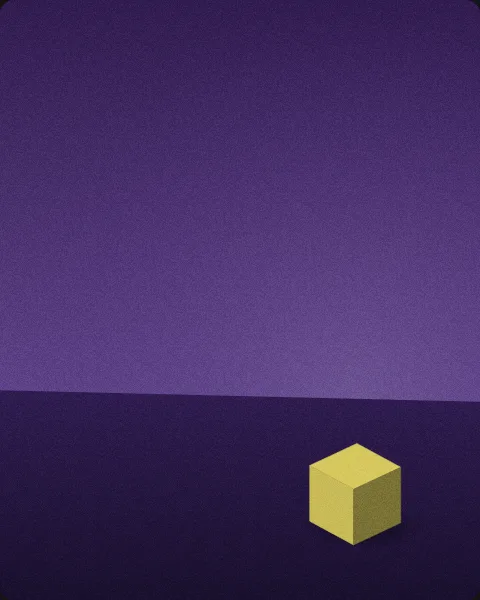
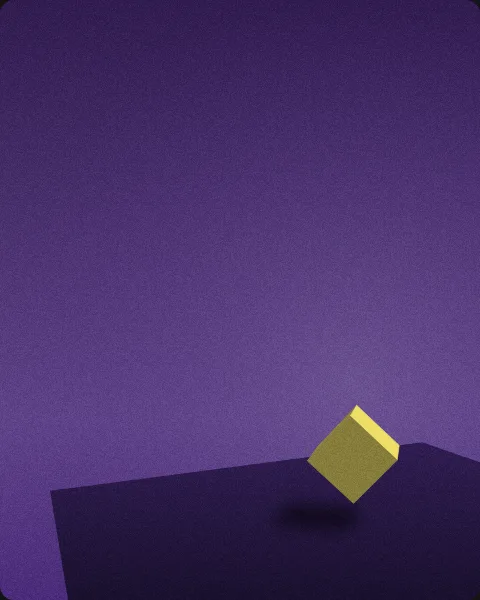
112차: 미니멀 큐브 움직임을 레퍼런스처럼 — 원근 투영 + 끝이 있는 바닥 판, 카메라가 판 둘레를 30초에 한 바퀴 돌아 판 모서리와 공간이 함께 돌고, 큐브는 두 축으로 구르듯 돌며 떠 있음, 그림자는 빛 방향으로 판 위에 흐리게(사파리도 되는 그림자 방식), 카메라 높이 고정이라 바닥은 아래 1/4 안, 9:16은 큐브를 더 아래로
Claude-Session: https://claude.ai/code/session_018YFXtycg7XUaka8AzxDZiV

Changed region(s): [[0.0, 0.63, 1.0, 1.0]]

diff --git a/app/new/js/bg.js b/app/new/js/bg.js
@@ -1041,7 +1041,7 @@ function drawGband(cv, seed, t, grain) {
 }
 // 미니멀 큐브 (11-26 111차, 앤드류 레퍼런스(바닥 위 큐브 하나)의 느낌만 · 3D 라이브러리 없이 꼭짓점 8개를 직접 투영해 새로 작성). 빈 스튜디오 벽 · 바닥 위에
 // 단색 큐브 하나, 벽엔 바닥선 근처 빛 번짐, 바닥엔 부드러운 그림자. 큐브는 아래 1/3에 작게, 가운데 ~ 오른쪽(날짜가 왼쪽 아래라서, 가운데면 조금 위), 글은 벽 위라 박스 없이.
-// 색 10가지(벽 · 바닥 · 보색 큐브, 어두운 8 · 연한 2). 셔플 = 크기 · 자리 · 각도 · 바닥선 기울기 · 내려다보는 각도. 모션 = 10초에 한 바퀴, 두 번 살짝 떠요
+// 색 10가지(벽 · 바닥 · 보색 큐브, 어두운 8 · 연한 2). 셔플 = 크기 · 자리 · 카메라 방향 · 큐브 각도. 모션 = 카메라 30초에 한 바퀴 + 큐브 10초에 구름
 export const CUBE_PAL = [   // [이름, 벽, 바닥, 큐브]
   ['버건디 · 민트', '#7A1A2A', '#3E1A24', '#5BC4BE'], ['남색 · 살구', '#1B2A5A', '#121A38', '#FFB38A'], ['숲 · 분홍', '#1E4A36', '#12281F', '#FF9EB8'], ['보라 · 레몬', '#4A2A7A', '#241640', '#F4E36A'],
   ['먹 · 주황', '#2A2A2E', '#18181B', '#FF7A3D'], ['청록 · 코랄', '#0F4C5C', '#0A2A33', '#FF7F6B'], ['자두 · 하늘', '#5A1E4A', '#2E1028', '#8FD3FF'], ['올리브 · 라일락', '#4A4A1E', '#262612', '#C7A8FF'],
@@ -1052,35 +1052,44 @@ export const cubeLight = (seed, pal) => { const [r, g, b] = hx3(CUBE_PAL[cubePal
 const cubeCache = new Map();
 function cubeOf(seed) {
   if (cubeCache.has(seed)) return cubeCache.get(seed);
-  const r = rng(seed ^ 0x51c3), p = { size: .11 + r() * .07, pos: [.5, .62, .74][Math.floor(r() * 3)], tilt: (r() - .5) * .14, a: r() * 6.28, el: .42 + r() * .12 };
+  const r = rng(seed ^ 0x51c3), p = { size: .8 + r() * .35, pos: [.5, .62, .74][Math.floor(r() * 3)], th: r() * 6.28, rx: r() * 6.28, ry: r() * 6.28 };
   if (cubeCache.size > 60) cubeCache.delete(cubeCache.keys().next().value);
   cubeCache.set(seed, p); return p;
 }
 const CB_V = [[-1, -1, -1], [1, -1, -1], [1, 1, -1], [-1, 1, -1], [-1, -1, 1], [1, -1, 1], [1, 1, 1], [-1, 1, 1]];
 const CB_F = [[[0, 1, 2, 3], [0, 0, -1]], [[5, 4, 7, 6], [0, 0, 1]], [[4, 0, 3, 7], [-1, 0, 0]], [[1, 5, 6, 2], [1, 0, 0]], [[3, 2, 6, 7], [0, 1, 0]], [[4, 5, 1, 0], [0, -1, 0]]];
+const cbHull = P => { P = P.slice().sort((p, q) => p[0] - q[0] || p[1] - q[1]); const cr = (o, a, b) => (a[0] - o[0]) * (b[1] - o[1]) - (a[1] - o[1]) * (b[0] - o[0]), lo = [], up = [];
+  for (const p of P) { while (lo.length > 1 && cr(lo[lo.length - 2], lo[lo.length - 1], p) <= 0) lo.pop(); lo.push(p); }
+  for (const p of P.reverse()) { while (up.length > 1 && cr(up[up.length - 2], up[up.length - 1], p) <= 0) up.pop(); up.push(p); } return lo.slice(0, -1).concat(up.slice(0, -1)); };
+// 112차 (앤드류 T1): 원근 투영 + 끝이 있는 바닥 판. 카메라가 판 둘레를 30초에 한 바퀴 돌아 판 모서리와 공간이 같이 돌고, 큐브는 두 축으로 구르듯 돌며 떠 있어요.
+// 카메라 높이는 고정이라 바닥은 늘 아래 1/4 안 (글은 벽 위). 그림자는 빛 방향으로 판 위에 눕힌 모양을 흐리게
 function drawCube(cv, seed, t, grain) {
   const W = cv.width, H = cv.height, P = cubeOf(seed), C = CUBE_PAL[cubePal(seed, cv.dataset.pal)], light = cubeLight(seed, cv.dataset.pal), x = cv.getContext('2d');
   const K = v => v.map(q => q * 255), wall = K(hx3(C[1])), floor = K(hx3(C[2])), cube = K(hx3(C[3])), mix = (A, B, k) => A.map((v, i) => v + (B[i] - v) * k), css = (c, a = 1) => `rgba(${c.map(Math.round).join(',')},${a})`;
-  const tall = H / W > 1.6, mid = P.pos === .5, ang = P.a + t / 10 * Math.PI * 2, lift = (Math.sin(t / 10 * Math.PI * 4) * .5 + .5) * .35 * (t > 0 ? 1 : 0);
-  const fy = H * (tall ? .76 : .66) - (mid && !tall ? H * .03 : 0), y0 = fy - P.tilt * W / 2, y1 = fy + P.tilt * W / 2;
+  const tall = H / W > 1.6, th = P.th + t / 30 * Math.PI * 2, rx = P.rx + t / 10 * Math.PI * 2, ry = P.ry + t / 10 * Math.PI, lift = t > 0 ? Math.sin(t / 10 * Math.PI * 4) * .18 : 0;
+  const sub = (a, b) => a.map((v, i) => v - b[i]), dot = (a, b) => a[0] * b[0] + a[1] * b[1] + a[2] * b[2], nrm = a => { const l = Math.hypot(...a); return a.map(v => v / l); };
+  const cam = [Math.sin(th) * 9, 3.4, Math.cos(th) * 9], fw = nrm(sub([0, 1.1, 0], cam)), rt = nrm([-fw[2], 0, fw[0]]), up = [rt[1] * fw[2] - rt[2] * fw[1], rt[2] * fw[0] - rt[0] * fw[2], rt[0] * fw[1] - rt[1] * fw[0]];
+  const f = W * 1.25, X0 = W * P.pos, Y0 = H * (tall ? .87 : .76), prj = p => { const d = sub(p, cam), z = dot(d, fw); return [X0 + f * dot(d, rt) / z, Y0 - f * dot(d, up) / z]; };
   x.globalCompositeOperation = 'source-over'; x.globalAlpha = 1;
-  let gr = x.createLinearGradient(0, 0, 0, fy); gr.addColorStop(0, css(mix(wall, [0, 0, 0], light ? .06 : .35))); gr.addColorStop(1, css(mix(wall, [255, 255, 255], light ? .3 : .12)));
+  let gr = x.createLinearGradient(0, 0, 0, H); gr.addColorStop(0, css(mix(wall, [0, 0, 0], light ? .06 : .35))); gr.addColorStop(.7, css(mix(wall, [255, 255, 255], light ? .3 : .12))); gr.addColorStop(1, css(wall));
   x.fillStyle = gr; x.fillRect(0, 0, W, H);
-  const gl = x.createRadialGradient(W * P.pos, fy, 0, W * P.pos, fy, W * .8); gl.addColorStop(0, css(mix(wall, [255, 255, 255], light ? .5 : .22), .7)); gl.addColorStop(1, css(wall, 0));
+  const gy = Y0 - H * .12, gl = x.createRadialGradient(X0, gy, 0, X0, gy, W * .8); gl.addColorStop(0, css(mix(wall, [255, 255, 255], light ? .5 : .22), .7)); gl.addColorStop(1, css(wall, 0));
   x.fillStyle = gl; x.fillRect(0, 0, W, H);
-  x.beginPath(); x.moveTo(0, y0); x.lineTo(W, y1); x.lineTo(W, H); x.lineTo(0, H); x.closePath();
-  gr = x.createLinearGradient(0, fy, 0, H); gr.addColorStop(0, css(mix(floor, wall, .25))); gr.addColorStop(1, css(mix(floor, [0, 0, 0], light ? .04 : .3))); x.fillStyle = gr; x.fill();
-  const S = W * P.size / 1.8, cx = W * P.pos, by = H * (tall ? .91 : .87) - (mid && !tall ? H * .05 : 0), ca = Math.cos(ang), sa = Math.sin(ang), ce = Math.cos(P.el), se = Math.sin(P.el);   // 가운데면 날짜와 떨어지게 조금 위
-  const rot = ([a, b, c]) => [a * ca + c * sa, b, -a * sa + c * ca];
-  const prj = p => { const [a, b, c] = rot(p); return [cx + a * S, by - ((b + 1 + lift) * ce - c * se) * S]; };
-  const sh = x.createRadialGradient(0, 0, 0, 0, 0, 1); sh.addColorStop(0, `rgba(0,0,0,${(light ? .22 : .45) * (1 - lift * .8)})`); sh.addColorStop(1, 'rgba(0,0,0,0)');
-  x.save(); x.translate(cx + S * .35, by + S * .15); x.scale(S * (1.9 + lift), S * (.7 + lift * .3)); x.fillStyle = sh; x.beginPath(); x.arc(0, 0, 1, 0, 7); x.fill(); x.restore();
-  const L = [-.5, .8, .45], ln = Math.hypot(...L);
-  CB_F.map(([ix, n]) => { const rn = rot(n); return { ix, rn, dep: rn[2] * ce + rn[1] * se }; }).filter(f => f.dep > 0).sort((p, q) => p.dep - q.dep).forEach(f => {
-    const k = .5 + .5 * Math.max(0, (f.rn[0] * L[0] + f.rn[1] * L[1] + f.rn[2] * L[2]) / ln);
-    x.fillStyle = css(mix([0, 0, 0], cube, k)); x.beginPath(); f.ix.forEach((i, j) => { const [X, Y] = prj(CB_V[i]); j ? x.lineTo(X, Y) : x.moveTo(X, Y); }); x.closePath(); x.fill();
-    x.strokeStyle = x.fillStyle; x.lineWidth = Math.max(.5, W / 900); x.stroke();   // 면 사이 틈 메우기
-  });
+  const FS = 4.2, fl = [[-FS, 0, -FS], [FS, 0, -FS], [FS, 0, FS], [-FS, 0, FS]].map(prj), top = Math.min(...fl.map(p => p[1]));
+  x.beginPath(); fl.forEach(([a, b], i) => i ? x.lineTo(a, b) : x.moveTo(a, b)); x.closePath();
+  gr = x.createLinearGradient(0, top, 0, H); gr.addColorStop(0, css(mix(floor, wall, .3))); gr.addColorStop(1, css(mix(floor, [0, 0, 0], light ? .05 : .3))); x.fillStyle = gr; x.fill();
+  const cxr = Math.cos(rx), sxr = Math.sin(rx), cyr = Math.cos(ry), syr = Math.sin(ry), hs = P.size * .55, C0 = [0, 1.15 + lift, 0];
+  const rot = ([a, b, c]) => { const b1 = b * cxr - c * sxr, c1 = b * sxr + c * cxr; return [a * cyr + c1 * syr, b1, -a * syr + c1 * cyr]; };
+  const Wv = CB_V.map(v => rot(v).map((q, i) => q * hs + C0[i])), Ld = nrm([-.5, 1, .35]);
+  const shp = cbHull(Wv.map(p => { const k = p[1] / Ld[1]; return prj([p[0] - Ld[0] * k, 0, p[2] - Ld[2] * k]); })), off = W * 3;   // 그림자: 판 밖에 그리고 흐린 그림자만 옮겨 와요 (사파리도 되는 방법)
+  x.save(); x.shadowColor = `rgba(0,0,0,${light ? .28 : .55})`; x.shadowBlur = W * .03; x.shadowOffsetX = off; x.fillStyle = '#000';
+  x.beginPath(); shp.forEach(([a, b], i) => i ? x.lineTo(a - off, b) : x.moveTo(a - off, b)); x.closePath(); x.fill(); x.restore();
+  const Pp = Wv.map(prj);
+  CB_F.map(([ix, n]) => { const rn = rot(n), c = ix.reduce((a, i) => a.map((v, k) => v + Wv[i][k] / 4), [0, 0, 0]); return { ix, rn, vis: dot(rn, sub(cam, c)) > 0, dep: Math.hypot(...sub(c, cam)) }; })
+    .filter(q => q.vis).sort((p, q) => q.dep - p.dep).forEach(q => {
+      x.fillStyle = css(mix([0, 0, 0], cube, .45 + .55 * Math.max(0, dot(q.rn, Ld)))); x.beginPath(); q.ix.forEach((i, j) => j ? x.lineTo(Pp[i][0], Pp[i][1]) : x.moveTo(Pp[i][0], Pp[i][1])); x.closePath(); x.fill();
+      x.strokeStyle = x.fillStyle; x.lineWidth = Math.max(.5, W / 700); x.stroke();   // 면 사이 틈 메우기
+    });
   if (grain) { x.globalCompositeOperation = 'soft-light'; x.globalAlpha = grain; x.fillStyle = x.createPattern(gbNoise(), 'repeat'); x.fillRect(0, 0, W, H); x.globalCompositeOperation = 'source-over'; x.globalAlpha = 1; }
 }
 function fractalTile(o, seed) {

diff --git a/app/new/js/templates.js b/app/new/js/templates.js
@@ -36,7 +36,7 @@ const PREVIEW = [
     ex: [['퇴근길 하늘이 이상하게 예뻐서 버스를 한 정거장 일찍 내렸다.', 5, '45'], ['새벽에 눈이 일찍 떠져서 창밖이 밝아오는 걸 오래 봤다.', 21, '916'], ['오늘은 걷기만 했는데도 좋은 하루였다.', 13, '11']],
     preview: true },
   { id: 'cube', fmt: 'cube', name: '미니멀 큐브', kind: '아트', pop: 23, added: '2026-11-26', motion: true, paid: true,
-    desc: ['빈 스튜디오 바닥 위에 놓인 단색 큐브 하나.', '셔플마다 새로운 크기 · 자리 · 각도 · 색,', '천천히 돌며 살짝 떠오르는 모션.'],
+    desc: ['빈 스튜디오 바닥 위에 놓인 단색 큐브 하나.', '셔플마다 새로운 크기 · 자리 · 각도 · 색,', '공간이 함께 돌고 큐브가 구르는 모션.'],
     tags: ['짧은글', '감성'], words: ['큐브', '미니멀', '3D', '정육면체', '스튜디오', '그림자', '단순', '여백', '오브제', '보색', '조용', '정리'],
     ex: [['책상을 비우고 컵 하나만 올려 두었다.', 13, '45'], ['비 오는 오후, 창가에 앉아 음악을 들었다. 마음이 편했다.', 28, '916'], ['단순하게.', 47, '11']],
     preview: true },

diff --git a/app/new/js/main.js b/app/new/js/main.js
@@ -1983,7 +1983,7 @@ const REC_T = { 밤: '밤에 쓰기 좋은', 비: '비 오는 날엔', 눈: '눈
 const WXK = { sun: '맑음', suncloud: '구름 조금', cloud: '흐림', rain: '비', snow: '눈', thunder: '천둥', fog: '안개' };
 const dayLine = (now = new Date()) => { let w = ''; try { const x = JSON.parse(localStorage.getItem('daytale.wx') || 'null'); if (x && Date.now() - x.at < 3 * 3600e3 && WXK[x.kind]) w = ` · ${WXK[x.kind]}${x.temp != null ? ` ${x.temp}°` : ''}`; } catch {} return `${now.getMonth() + 1}월 ${now.getDate()}일 ${'일월화수목금토'[now.getDay()]}요일${w}`; };
 // 78차: 새 버전 확인. 앱으로 돌아올 때(다른 앱 갔다 오기) version.txt가 지금과 다르면 저절로 새로 고쳐요. 쓰는 중엔 안 해요
-const BUILD = '111', BUILD_TAG = '11-26 111차';
+const BUILD = '112', BUILD_TAG = '11-26 112차';
 let verAt = 0;
 const checkVer = () => {
   if (document.hidden || Date.now() - verAt < 20e3) return; verAt = Date.now();

diff --git a/app/new/tpl/cube/tpl.js b/app/new/tpl/cube/tpl.js
@@ -4,7 +4,7 @@
 import { renderText, fitText } from '../../js/formats.js';
 
 export default {
-  id: 'cube', name: '미니멀 큐브', info: '아트 · 셔플할 때마다 새 자리와 각도 · 큐브가 천천히 돌아요', paid: true, rich: true, cls: 'art ccube',
+  id: 'cube', name: '미니멀 큐브', info: '아트 · 셔플할 때마다 새 자리와 각도 · 공간이 돌고 큐브가 굴러요', paid: true, rich: true, cls: 'art ccube',
   tools: { photo: false, emo: false, page: true, shuf: true, style: true, font: true, bg: 'art', dp: true },
   sample: { pages: ['책상을 비우고 컵 하나만 올려 두었다.'], bg: { id: 'cube', dim: 'dark', seed: 7 } },
   blank: () => ({ pages: [''], bg: { id: 'cube', dim: 'dark', seed: Math.floor(Math.random() * 1e9) }, align: { h: 'c', v: 'm' }, datePos: 'bottom', font: 'sans', size: 'm' }),
